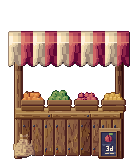
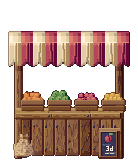
Crossroads stall XR5: valance folds in a warm deep cream, east edge darkest
Round 5 of the detail audit (docs/reviews/2026-11-08-crossroads-placed.md)
passed the slate, the counter-front boards and the sack and failed the
valance. This pass redraws only the valance in p_stall_hd and merges two
near-duplicate tones; the slate, boards, sack and nails are as they were.
Alpha is unchanged, so ground.png, kit.json and crossroads.tscn stay
byte-identical to main (the drifted oak/bush sprites and the kit.json
inputs hash are kept at main's bytes).

- XR5-S1: the cream's deep fold is lamplit 3 (#aa8a5c: L 59.4, C 29.8,
  h 78.4; dE76 21.0 to #a49689 and 23.4 to #988e85) instead of plaster 1
  (#9e8675). #c0a98d stays the mid fold. No #9e8675 is left inside the
  hanging faces; it remains only in the outline (row 31, column 8). The one
  lit outline texel in a scallop notch takes plaster's edge tone.
- XR5-S2: each stripe hangs in one long fold: a lit ridge, one mid column,
  then a deep strip 1 column wide (2 toward the hem on stripes 2, 6 and 9),
  unbroken from y 43 to the scallop. It steps at most one column, once, and
  both columns are deep on the step row so the strip never breaks. Red
  stripes take the same, in #ce6364 / #8e2348 / #630735.
- XR5-S3: the last 3 columns of every stripe are the ramp's darkest step
  (#aa8a5c on the cream, #630735 on the red) for the full drop. The hem's
  turned edge no longer lightens or darkens a mid or deep column. Fold
  positions, steps and widening differ per stripe.
[…]

Changed region(s): [[0.058, 0.2469, 0.9565, 0.4321], [0.058, 0.2469, 0.087, 0.2778]]

diff --git a/scripts/art/native/village.py b/scripts/art/native/village.py
@@ -4656,7 +4656,8 @@ def grained_front_board(a, m, fam, t, rng):
     tt[:, 0] = t + 1
     tt[:, Wb - 1] = t - 2
     ff = np.full((Hb, Wb), FI[fam])
-    ff[:, Wb - 1] = FI['timber_cool']                                    # the joint in the cool shade
+    ff[:, Wb - 1] = FI['timber_cool'] if t - 2 > 0 else FI['timber']    # the joint in the cool shade (XR5-S4:
+    #                                                                  its deepest step is timber's, one tone)
     sub = m[by0:by1, bx0:bx1]
     blk_ = a[by0:by1, bx0:bx1]
     blk_[sub] = (ff * 8 + np.clip(tt, 0, 5).astype(int))[sub]
@@ -4762,27 +4763,41 @@ def p_stall_hd(w, h, seed, hd=False):
     m = am | hem
     stripe = ((X - x0 + q(2)) // q(4)).astype(int) % 2
     us = ((X - x0 + q(2)) % q(4)) / q(4)
-    # XR4-S4: the hanging faces fold: the meeting of the panels inside each stripe wanders a texel down the
-    # drop (the stripe's own edges stay straight), the gathered top of each fold catches the light under
-    # the rib, a fold shade runs down one side of each stripe, opening wider towards the hem, the lit face
-    # turns under at its foot and the deep fold takes light bounced up at its foot
-    sid = ((X - x0 + q(2)) // q(4)).astype(int)
-    dv = np.clip((Y - tp) / max(1, ay1 + q(2.4) - tp), 0, 1)
-    wand = np.round(0.6 * np.sin((Y - tp) / 4.6 + sid * 1.9))
-    usw = np.clip(us + wand / q(4), 0.0, 0.999)
-    usw = np.where(us < 1.0 / q(4), us, usw)                                           # the lit edge column stays
-    usw = np.where(us >= 1 - 1.0 / q(4), us, usw)                                     # and the dark one
-    fold = np.select([usw < 0.25, usw < 0.5, usw < 0.75], [4, 3, 2], 1).astype(float)
-    gath = tp + 3 + ((X.astype(int) + sid) % 3 == 0)                                  # its lower edge in gathers
-    fold = np.where((Y >= tp + 1) & (Y < gath) & (usw < 0.75), np.minimum(5, fold + 1), fold)
-    fside = (usw >= 0.5 - 0.17 * np.clip((dv - 0.35) / 0.65, 0, 1)) & (usw < 0.5) & (dv > 0.35 + 0.1 * np.sin(sid * 2.3))
-    fold = np.where(fside, fold - 1, fold)
-    crease = (usw >= 0.5 - 1.0 / q(4)) & (usw < 0.5) & (dv > 0.2 + 0.1 * np.sin(sid * 2.3))
-    fold = np.where(crease, np.minimum(fold, 1), fold)                                  # the crease at its core
-    foot = dv > 0.55 + 0.08 * np.sin(sid * 0.9)                                     # at the hem the fold opens:
-    fold = np.where((usw >= 0.5) & (usw < 0.75) & foot, fold - 1, fold)              # its shade moves west
-    fold = np.where((usw >= 0.75) & foot, fold + 1, fold)                             # and light bounces in east
-    fold = np.where((usw < 0.25) & (usw >= 0.25 - 1.0 / q(4)) & (dv > 0.62 + 0.1 * np.sin(sid * 1.1)), fold - 1, fold)
+    # XR5-S2, S3: each stripe's hanging face is cloth hung in a long fold. Across the fold, west to east: a
+    # lit ridge, one column of mid tone, then the deep tone, one column wide, on some stripes two toward the
+    # hem; it runs unbroken from under the lit fold-over to the scallop and steps at most a column, once.
+    # The stripe's west column is lit and its last 3 columns are the darkest step of its ramp for the full
+    # drop. The folds differ stripe to stripe (where they stand, step and widen), and stand where the 2 x 2
+    # art grid keeps each part whole (a ridge and its mid column in one cell, the deep strip clear of the
+    # east band by a column of body). Per stripe: (east band width, folds), each fold (ridge column at the
+    # top, [(row, step)], the row it widens from or None).
+    FOLDS = {0: (3, [(5, [], None)]), 1: (3, [(5, [], None)]), 2: (3, [(5, [(9, -1)], 14)]),
+             3: (3, [(4, [(8, 1)], None)]), 4: (3, [(4, [(6, 1)], None)]), 5: (3, [(5, [(13, -1)], None)]),
+             6: (3, [(5, [(14, -1)], 17)]), 7: (3, [(5, [], None)]), 8: (3, [(4, [(11, 1)], None)]),
+             9: (3, [(5, [(10, -1)], 16)])}
+    W4 = q(4)
+    sid = ((X - x0 + q(2)) // W4).astype(int)
+    col = ((X - x0 + q(2)) % W4).astype(int)
+    kk = (Y - (tp + 1)).astype(int)
+    fold = np.full(a.shape, 3.0)                                                   # the cloth's body
+    deep = np.zeros(a.shape, bool)
+    for s_, (eb, folds) in FOLDS.items():
+        on = sid == s_
+        fold[on & (col == 0)] = 4.0                                                # its west edge, lit
+        fold[on & (col >= W4 - eb)] = 1.0                                          # the east band, darkest
+        deep |= on & (col >= W4 - eb)
+        for r0, drifts, wrow in folds:
+            rk = r0 + sum(np.where(kk >= dk, dd, 0) for dk, dd in drifts)          # the ridge column by row
+            rp = r0 + sum(np.where(kk - 1 >= dk, dd, 0) for dk, dd in drifts)      # and on the row above
+            wide = (kk >= wrow) if wrow is not None else np.zeros(a.shape, bool)
+            fold[on & (col == rk)] = 4.0
+            fold[on & (col == rk + 1)] = 2.0
+            # the deep strip, and where the fold steps a column, both columns for that row, so it never breaks
+            dm = on & (((col >= np.minimum(rk, rp) + 2) & (col <= np.maximum(rk, rp) + 2)) | (wide & (col == rk + 3)))
+            fold[dm] = 1.0
+            deep |= dm
+    gath = tp + 3 + ((X.astype(int) + sid) % 3 == 0)                                  # the gathered top, lit
+    fold = np.where((Y >= tp + 1) & (Y < gath) & ~deep, np.minimum(5, fold + 1), fold)
     # XR2-S2: the top plane in 2 to 3 tones: each stripe's canvas folds over its rib (lit on the west,
     # shading east), the plane rising back a tone darker at its far edge, lit at its front
     ftop = np.select([us < 0.3, us < 0.78], [5.0, 4.0], 3.0)
@@ -4791,9 +4806,14 @@ def p_stall_hd(w, h, seed, hd=False):
     tt = np.where(Y < ay0 + 1, 3.0, tt)                                         # its far edge, rising back
     tt = np.where((Y >= tp) & (Y < tp + 1), 5.0, tt)                            # the fold-over at the front edge
     hem_d = (((X - x0) % q(4)) - q(2)) ** 2 / q(2) ** 2 + ((Y - ay1) / q(2.4)) ** 2
-    tt = np.where(m & (Y >= ay1) & (hem_d > 0.55), tt - 1, tt)                                                    # the hem's turned edge
+    rim = m & (Y >= ay1) & (hem_d > 0.55)
+    tt = np.where(rim & (tt > 2), tt - 1, tt)                                    # the hem's turned edge (a fold's mid
+    #                                                                            and deep columns keep their steps)
     tt = np.clip(tt, 1, 5)
     a[m & (stripe == 0)] = FI['plaster'] * 8 + tt[m & (stripe == 0)].astype(int)
+    # XR5-S1: the cream's deep fold keeps the ramp's warmth and chroma (lamplit 3, #aa8a5c: L 59, C 30,
+    # h 78), never the grey-taupe plaster 1, which read as a stain and as the wall behind
+    a[m & (stripe == 0) & (Y >= tp + 1) & (tt <= 1)] = code('lamplit', 3)
     a[m & (stripe == 1)] = FI['berry'] * 8 + tt[m & (stripe == 1)].astype(int)
     under = _rect(a.shape, x0, ay1 + q(2.4), x1, ay1 + q(4)) & (a >= 0)
     _step_down(a, under, 1)
@@ -4940,7 +4960,15 @@ def p_stall_hd(w, h, seed, hd=False):
                           (bfam,) + SIB[bfam], share=0.3, step=(8, 3), squash=2.4, maxrun=50, keep=keep)
     # XR3-S1: the nail heads keep their lit texel; XR3-S2: the chalk keeps its strokes (the tidy would
     # fill a letter's one-texel counter and take a stroke's lone end)
-    return finish(p, keep=keep)
+    finish(p, keep=keep)
+    # XR5-S4: one outline tone where the sack and the deep cream meet the air: the sand ramps' edge tone
+    # (#3d2d30) and lamplit's are drawn in plaster's (#413438), which the stall's cloth already uses
+    a = p.a
+    edge_fams = [FI[f] for f in ('sand', 'sand_warm', 'sand_cool', 'lamplit')]
+    a[(a >= 0) & (a % 8 >= 6) & np.isin(a // 8, edge_fams)] = code('plaster', 6)
+    # XR5-S1: and no plaster 1 left inside the hanging faces (a lit outline texel in a scallop's notch)
+    a[(Y >= tp + 1) & (Y < ay1 + q(1.6)) & (X >= x0 - q(2)) & (a == code('plaster', 1))] = code('plaster', 6)
+    return p
 
 
 PROPS_HD = {
